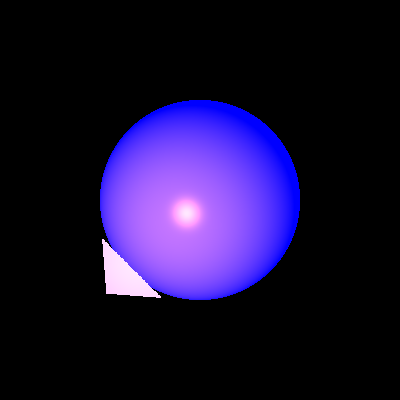
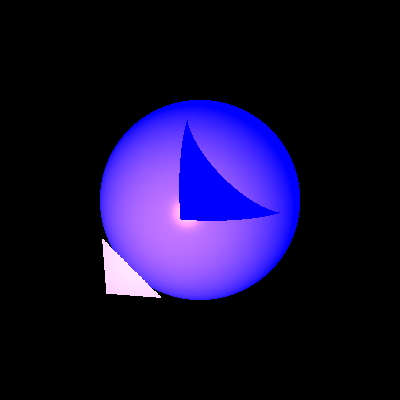
unshaded is working

Changed region(s): [[0.45, 0.3, 0.69, 0.57]]

diff --git a/src/renderer/RayTracerBasic.java b/src/renderer/RayTracerBasic.java
@@ -59,7 +59,7 @@ public class RayTracerBasic extends RayTracerBase {
 			Vector l = lightSource.getL(gp.point);
 			double nl = alignZero(n.dotProduct(l));//מכפל ה סקלרית של נורמל הגאומטריה עם וקטור האור
 			if (nl * nv > 0) { // sign(nl) == sing(nv)
-				if (unshaded(gp ,lightSource, l, n)) {
+				if (unshaded(gp,lightSource, l, n)) {
 					Color iL = lightSource.getIntensity(gp.point);// Intensity of the light
 					color = color.add(iL.scale(calcDiffusive(mat, nl)), iL.scale(calcSpecular(mat, n, l, nl, v)));
 
@@ -101,27 +101,26 @@ public class RayTracerBasic extends RayTracerBase {
 		return mat.Ks.scale(Math.pow(factor, mat.nShininess)) ;
 	}
 
+
 	/**
-	 * Checking for shading between a point and the light source
+	 *
 	 * @param gp
 	 * @param lightSource
 	 * @param l
 	 * @param n
 	 * @return
 	 */
-	//בודק אם מישהו חותך אותו ומקדם קצת קדימה כדי לא לפגוע בתמונה
 	private boolean unshaded(GeoPoint gp, LightSource lightSource, Vector l, Vector n){
 			Vector lightDirection = l.scale(-1); // from point to light source
-			Vector epsVector = n.scale(n.dotProduct(lightDirection) < 0 ? DELTA : -DELTA);
+			Vector epsVector = n.scale(n.dotProduct(lightDirection) > 0 ? DELTA : -DELTA);
 			Point point = gp.point.add(epsVector);
 			Ray lightRay = new Ray(point, lightDirection);
-			double lightDistance =lightSource.getDistance(gp.point);// the distance between the light source and the geopoint
 			List<GeoPoint> intersections = scene.geometries.findGeoIntersections(lightRay,lightSource.getDistance(gp.point));
 // Flat geometry can't self-intersect
 		if (intersections == null)
 			return true;
 		for (GeoPoint intersection: intersections) {
-			if (alignZero(intersection.point.distance(gp.point)-lightDistance) <= 0)
+			if (lightSource.getDistance(gp.point) >= intersection.point.distance(gp.point) )
 				return  false;
 		}
 		return true;
